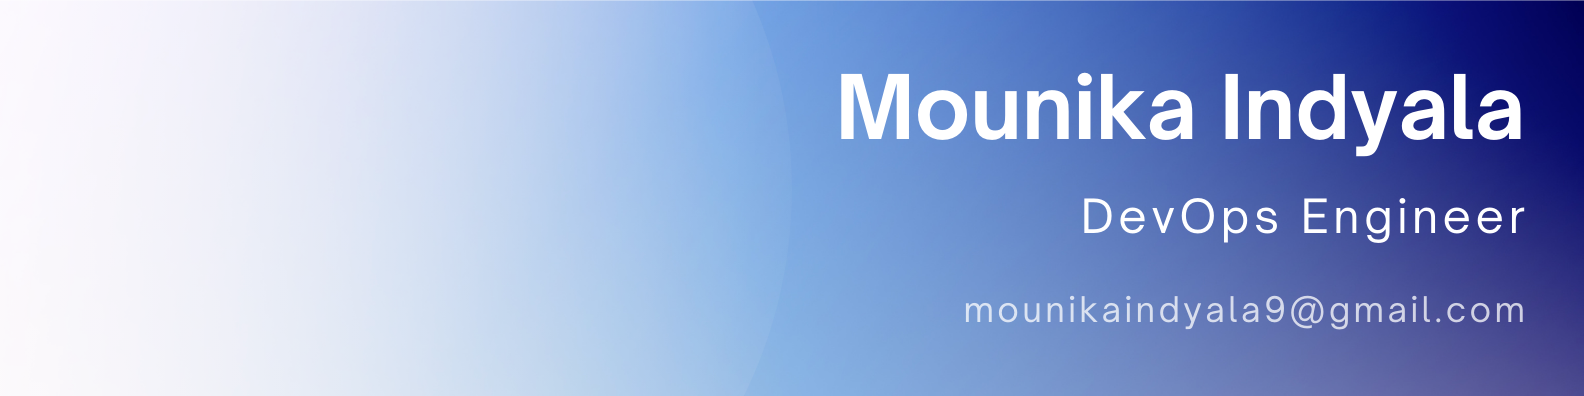
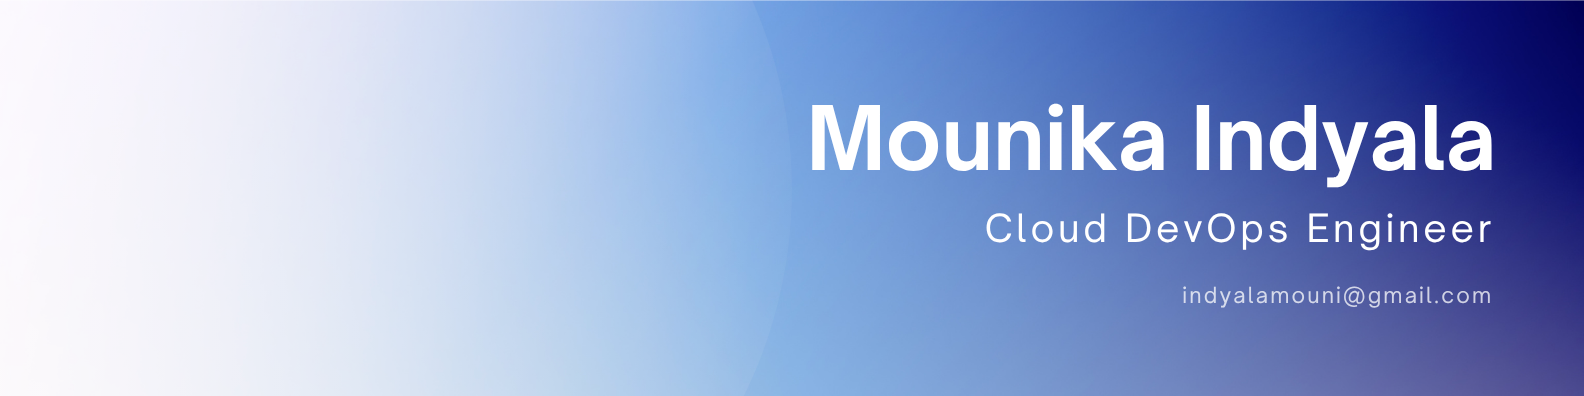
github

Changed region(s): [[0.4949, 0.1818, 0.959, 0.4848], [0.6187, 0.4848, 0.959, 0.6364], [0.5878, 0.7273, 0.959, 0.8485]]

diff --git a/Readme.MD b/Readme.MD
@@ -4,7 +4,7 @@
 
 # 👋 Hi, I'm Mounika Indyala
 
-### DevOps Engineer @ Techsource Emerging info Technologies pvt.ltd 
+### Cloud DevOps Engineer @ XIMAX AUTOMATION PRIVATE LIMITED 
 🚀 DevOps • Cloud Engineer | AWS  | CI/CD | Docker | Kubernetes | Terraform | Ansible | Mentor
 
 [![LinkedIn](https://img.shields.io/badge/LinkedIn-Connect-blue?logo=linkedin&style=flat)]((https://www.linkedin.com/in/mounika-reddy-indyala-b92b74373/))
@@ -82,7 +82,7 @@ Passionate **DevOps & AWS Cloud Engineer** with **5 years of experience** in inf
 
 ### 💼 Career Snapshot
 
-- 🏢 **Techsource Emerging info Technologies pvt.ltd** – *DevOps & AWS Cloud Engineer (1 Year)*
+- 🏢 **XIMAX AUTOMATION PRIVATE LIMITED** – *DevOps & AWS Cloud Engineer (1 Year 8 Months)*
 
   Experienced in AWS cloud, DevOps practices, CI/CD automation, Infrastructure as Code, container orchestration, and cloud security — delivering scalable, reliable, and efficient cloud platforms.
 
